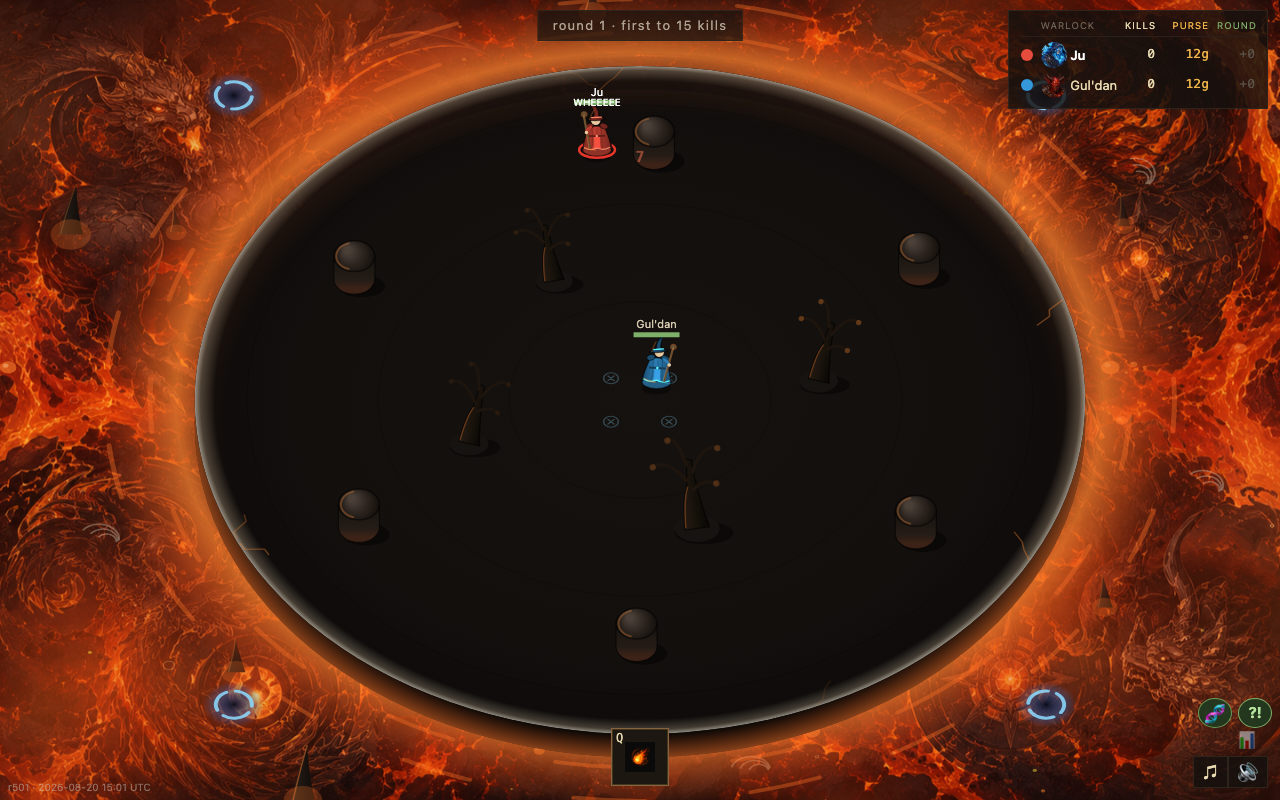
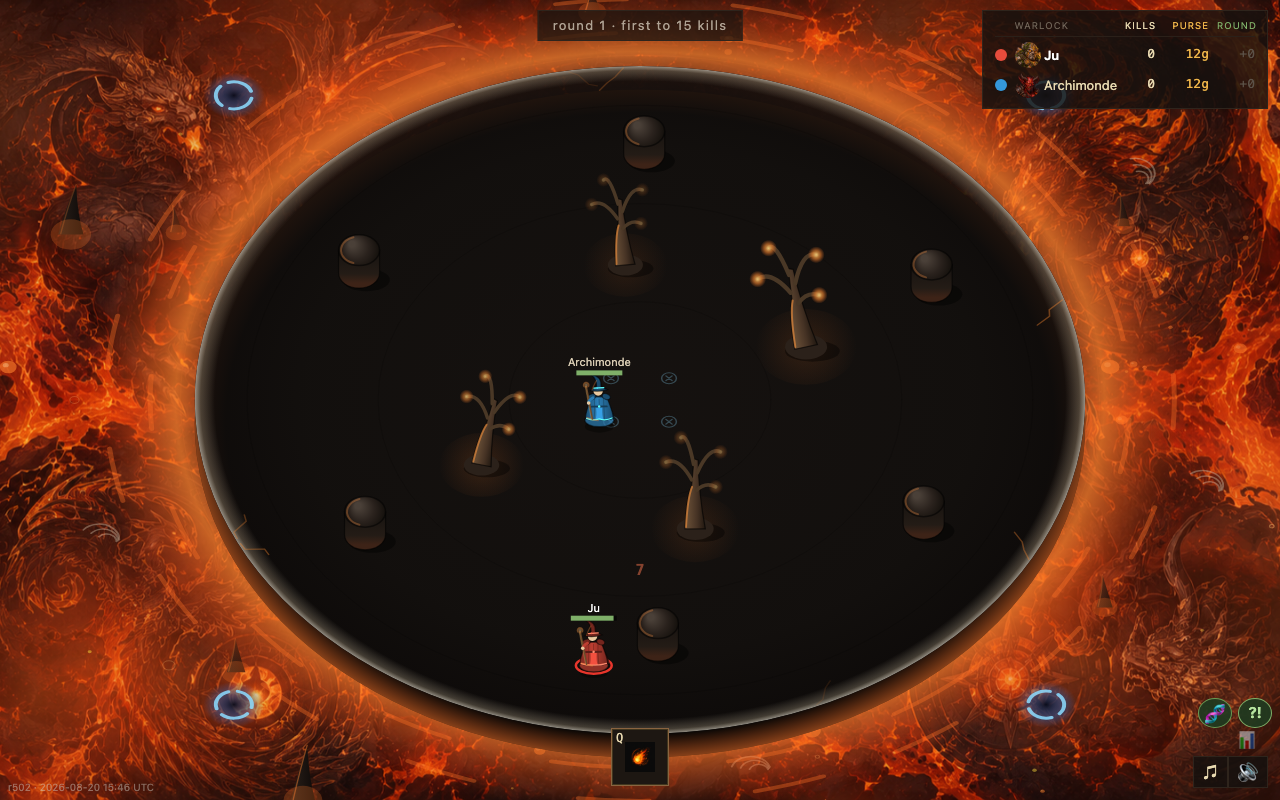
Ju v18.1 (issue #13): trees pop off the floor (fire halo at the roots, lighter bark, taller, radiant ember tips)

diff --git a/client/render.js b/client/render.js
@@ -733,13 +733,21 @@ export function draw(view, vs, fx, myId, moveMark, now, bubbles = []) {
     } else if (pil.tree) {
       // v18 (Ju): a DEAD TREE wearing the pillar's exact mechanics. The
       // collision circle is the trunk's base; everything above is paint.
-      const th = pr * 3.1;
+      const th = pr * 3.8;
       const lean = Math.sin(pil.x * 12.9 + pil.y * 7.1) * 0.22;   // stable per position
       const sway = Math.sin(now / 1400 + pil.x) * 0.015;          // barely-alive creak
+      // v18.1 (Ju: "on ne voit pas assez bien les arbres"): a fire halo at the
+      // roots makes the silhouette pop off the dark floor
+      const rootGlow = 0.5 + 0.2 * Math.sin(now / 900 + pil.y);
+      const rg = ctx.createRadialGradient(x, y, 0, x, y, pr * 2.4);
+      rg.addColorStop(0, `rgba(255, 130, 45, ${0.34 * rootGlow})`);
+      rg.addColorStop(1, 'rgba(255, 120, 40, 0)');
+      ctx.fillStyle = rg;
+      ctx.beginPath(); ctx.ellipse(x, y, pr * 2.4, pr * 2.4 * T, 0, 0, Math.PI * 2); ctx.fill();
       // ground shadow + scorched base
       ctx.fillStyle = 'rgba(0,0,0,0.4)';
       ctx.beginPath(); ctx.ellipse(x + pr * 0.3, y + pr * 0.2, pr * 1.3, pr * 0.5, 0, 0, Math.PI * 2); ctx.fill();
-      ctx.fillStyle = '#171310';
+      ctx.fillStyle = '#2b211a';
       ctx.beginPath(); ctx.ellipse(x, y, pr, pr * T * 0.8, 0, 0, Math.PI * 2); ctx.fill();
       ctx.save();
       ctx.translate(x, y);
@@ -753,15 +761,15 @@ export function draw(view, vs, fx, myId, moveMark, now, bubbles = []) {
       ctx.quadraticCurveTo(pr * 0.18, -th * 0.5, pr * 0.55, 0);
       ctx.closePath();
       const tg = ctx.createLinearGradient(-pr * 0.5, 0, pr * 0.5, 0);
-      tg.addColorStop(0, '#241a12'); tg.addColorStop(0.6, '#141009'); tg.addColorStop(1, '#0a0705');
+      tg.addColorStop(0, '#6b5138'); tg.addColorStop(0.6, '#453224'); tg.addColorStop(1, '#241a12');
       ctx.fillStyle = tg;
       ctx.fill();
       ctx.strokeStyle = 'rgba(0,0,0,0.6)';
       ctx.lineWidth = 1.2;
       ctx.stroke();
       // bare branches, two per side, with ember tips that breathe
-      ctx.strokeStyle = '#1d150d';
-      ctx.lineWidth = Math.max(1.4, pr * 0.16);
+      ctx.strokeStyle = '#4a3826';
+      ctx.lineWidth = Math.max(1.8, pr * 0.2);
       const tips = [];
       for (const [bx, by, ex2, ey2] of [
         [-pr * 0.2, -th * 0.7, -pr * 1.6, -th * 0.95],
@@ -775,14 +783,18 @@ export function draw(view, vs, fx, myId, moveMark, now, bubbles = []) {
         ctx.stroke();
         tips.push([ex2, ey2]);
       }
-      const emb = 0.5 + 0.4 * Math.sin(now / 700 + pil.x * 3);
+      const emb = 0.6 + 0.4 * Math.sin(now / 700 + pil.x * 3);
       for (const [ex2, ey2] of tips) {
-        ctx.fillStyle = `rgba(255, 140, 50, ${0.5 * emb})`;
-        ctx.beginPath(); ctx.arc(ex2, ey2, pr * 0.14, 0, Math.PI * 2); ctx.fill();
+        const eg = ctx.createRadialGradient(ex2, ey2, 0, ex2, ey2, pr * 0.4);
+        eg.addColorStop(0, `rgba(255, 220, 130, ${0.9 * emb})`);
+        eg.addColorStop(0.5, `rgba(255, 140, 50, ${0.6 * emb})`);
+        eg.addColorStop(1, 'rgba(255, 120, 40, 0)');
+        ctx.fillStyle = eg;
+        ctx.beginPath(); ctx.arc(ex2, ey2, pr * 0.4, 0, Math.PI * 2); ctx.fill();
       }
       // the lava's warm rim on the trunk's fire side
-      ctx.strokeStyle = 'rgba(255, 130, 50, 0.3)';
-      ctx.lineWidth = 1.4;
+      ctx.strokeStyle = 'rgba(255, 150, 60, 0.55)';
+      ctx.lineWidth = 2;
       ctx.beginPath();
       ctx.moveTo(-pr * 0.5, -pr * 0.1);
       ctx.quadraticCurveTo(-pr * 0.42, -th * 0.45, -pr * 0.18, -th * 0.6);

diff --git a/shared/version.js b/shared/version.js
@@ -2,4 +2,4 @@
 // rN = repo commit count. Shown in the client corner, in /health and in the
 // welcome handshake, so a stale tab, a stale Pages CDN copy or a mixed
 // client/server pair announces itself instead of being a mystery.
-export const VERSION = 'r502 · 2026-08-20 15:46 UTC';
+export const VERSION = 'r503 · 2026-08-20 15:58 UTC';
